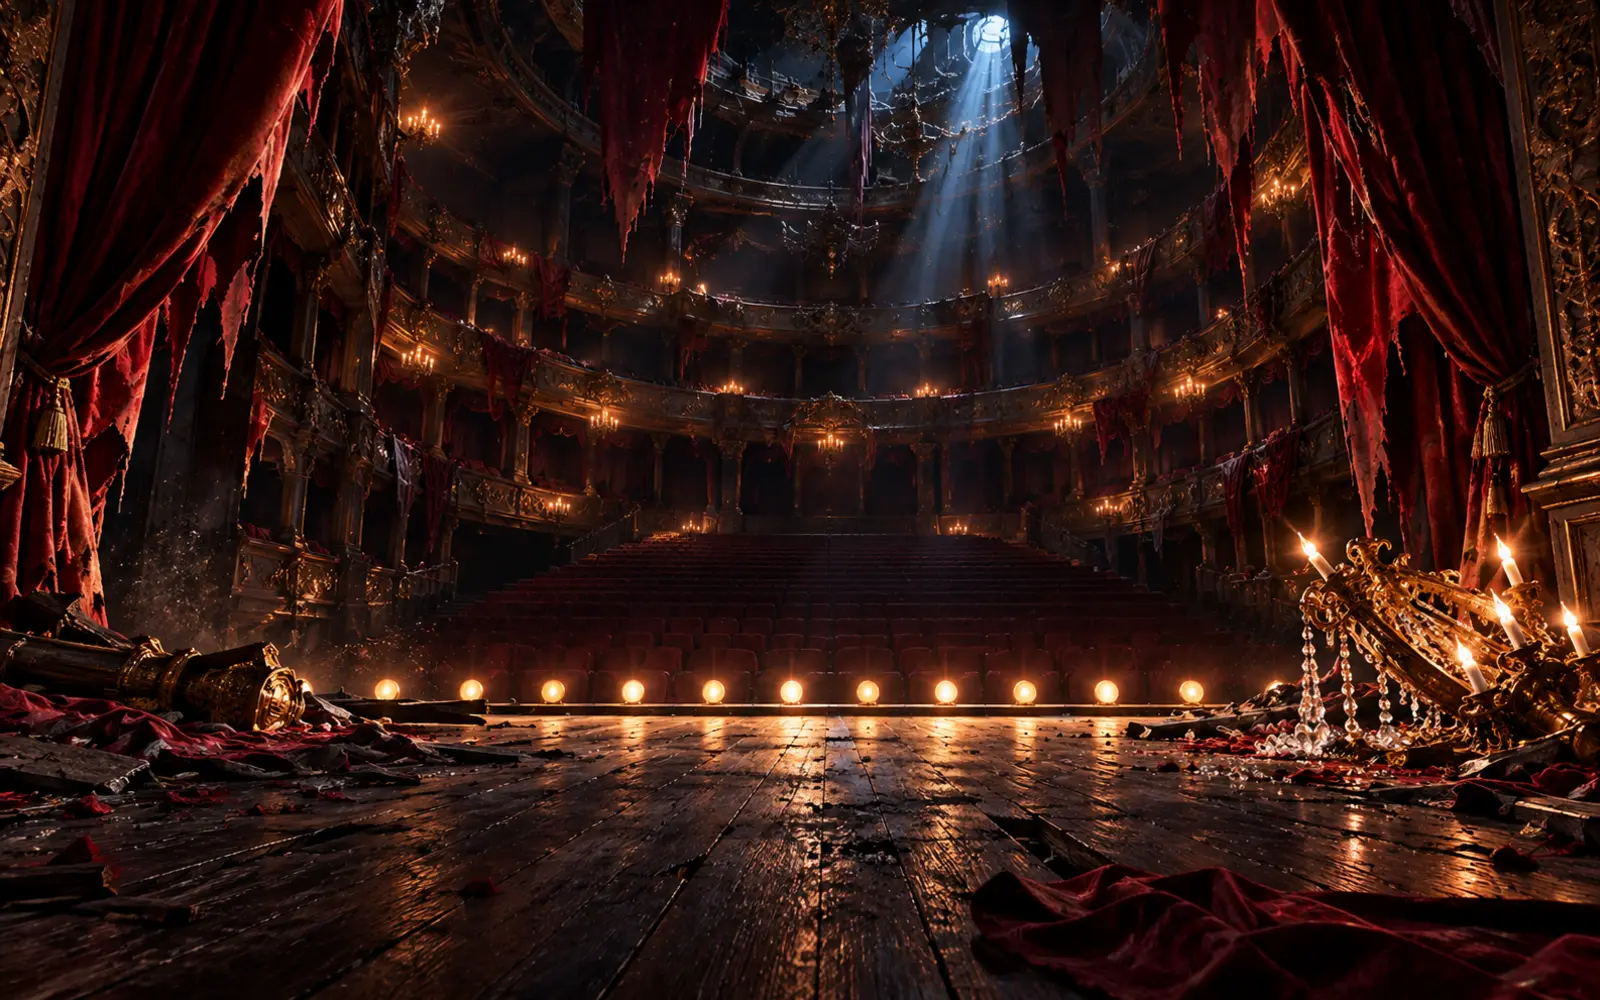
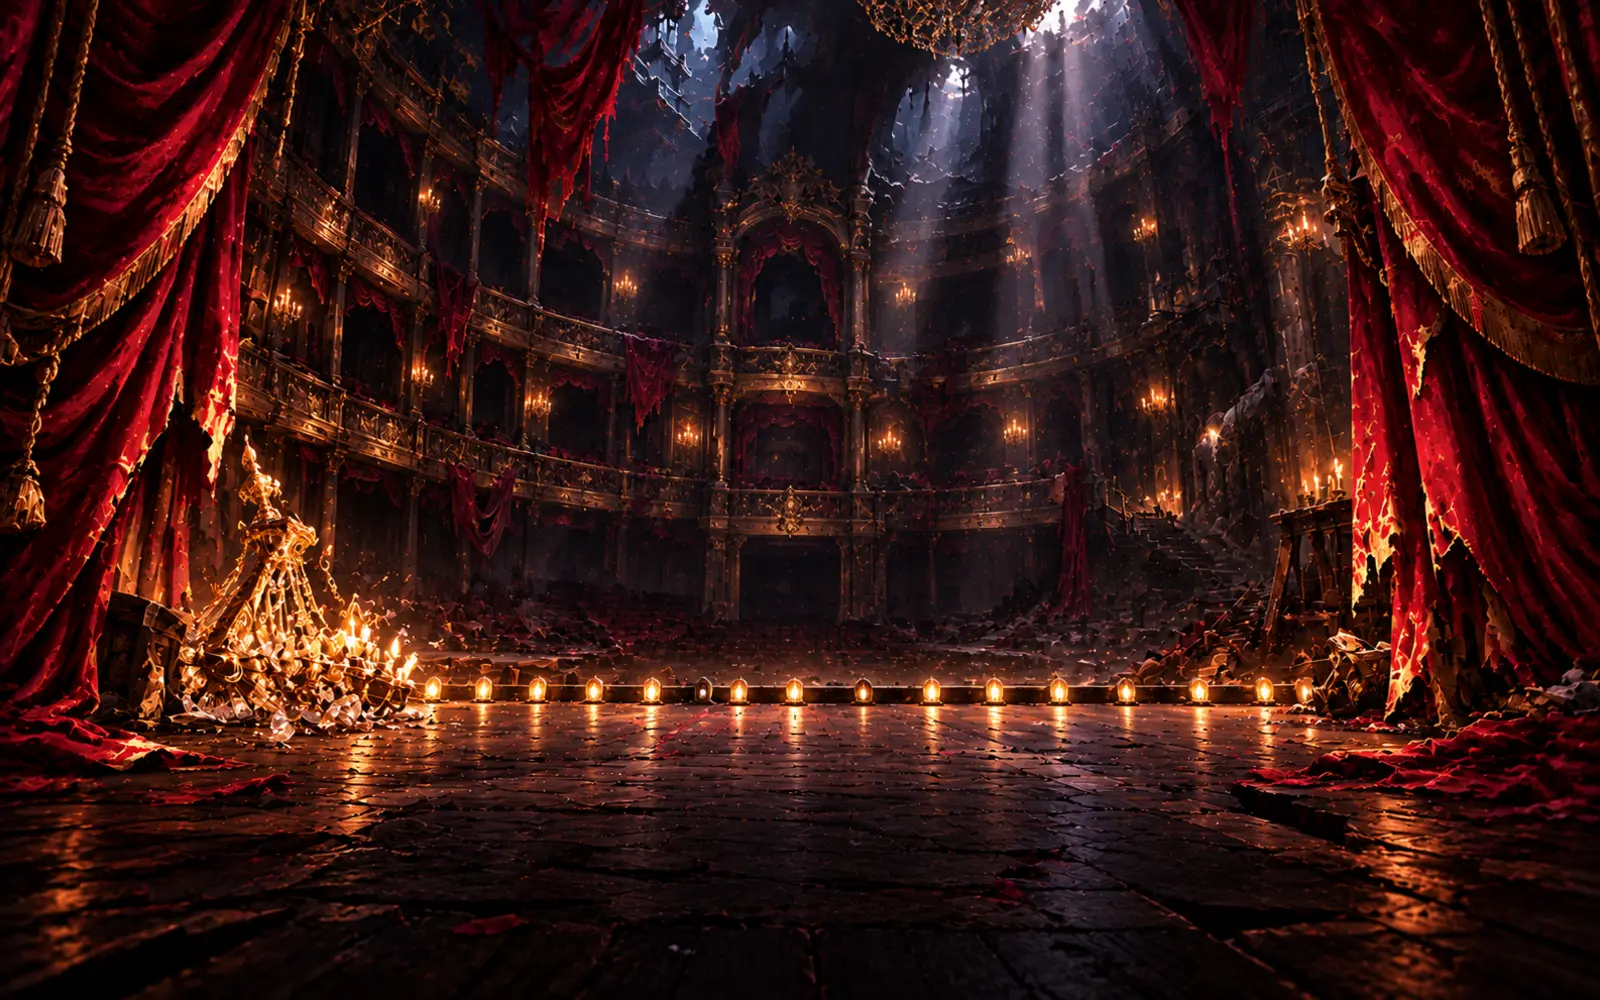
Character-free backgrounds, HUD sort control, briefing panel
Replaces all ten card backgrounds with character-free versions. Every
previous cover contained its own hero, so the transparent cut-out layered
on top landed on a second copy of the same person -- two knights, two
pilots. Enemies and vehicles are kept, since the Boss Battle demon and
the Grand Prix cars are the scene rather than the player. All ten are now
in one cel-shaded anime style, so the four newer games stop sitting beside
the six older ones in a visibly different look.

Replaces the native select with a listbox styled as part of the HUD. A
select renders as an OS widget -- grey, system-fonted, outside the
interface language of everything around it. The replacement keeps the
behaviour people expect: arrow keys, Home and End, Enter and Space to
choose, Escape to close, and focus returning to the trigger.

Filter tabs gain borders, accent glow on the active tab and a chip for
the count. The briefing panel gains corner ticks, a scanline wash and a
rule under the heading so it reads as part of the same interface as the
cards rather than an essay pasted underneath them.

Touch gets its own treatment. There is no hover on a phone, so the sprite
would sit at its small resting size permanently with no way to reveal it:
it renders larger from the start below sm, the hover growth applies only
from sm up, and the 112px row gap -- which exists purely to give a rising
character somewhere to go -- collapses to 24px where nothing rises.
[…]

diff --git a/src/components/games/sort-control.tsx b/src/components/games/sort-control.tsx
@@ -1,0 +1,155 @@
+"use client";
+
+import { useEffect, useRef, useState } from "react";
+import { ArrowUpDown, Check, ChevronDown } from "lucide-react";
+import { cn } from "@/lib/utils/cn";
+
+/**
+ * Sort control styled as part of the HUD.
+ *
+ * A native <select> renders as an OS widget — grey, system-fonted, and
+ * completely outside the interface language of the rest of the page. This is a
+ * button plus a listbox instead, but it keeps the behaviour people expect from
+ * a select: arrow keys move through options, Enter and Space choose, Escape
+ * closes, Home and End jump to the ends, and focus returns to the trigger.
+ */
+
+export interface SortOption<T extends string> {
+  id: T;
+  label: string;
+}
+
+export function SortControl<T extends string>({
+  value,
+  options,
+  onChange,
+  label = "Sort by",
+}: {
+  value: T;
+  options: readonly SortOption<T>[];
+  onChange: (v: T) => void;
+  label?: string;
+}) {
+  const [open, setOpen] = useState(false);
+  const [activeIndex, setActiveIndex] = useState(0);
+  const rootRef = useRef<HTMLDivElement | null>(null);
+  const triggerRef = useRef<HTMLButtonElement | null>(null);
+
+  const current = options.find((o) => o.id === value) ?? options[0];
+
+  useEffect(() => {
+    if (!open) return;
+
+    const onDocPointer = (e: PointerEvent) => {
+      if (!rootRef.current?.contains(e.target as Node)) setOpen(false);
+    };
+    const onKey = (e: KeyboardEvent) => {
+      if (e.key === "Escape") {
+        setOpen(false);
+        triggerRef.current?.focus();
+      }
+    };
+    document.addEventListener("pointerdown", onDocPointer);
+    document.addEventListener("keydown", onKey);
+    return () => {
+      document.removeEventListener("pointerdown", onDocPointer);
+      document.removeEventListener("keydown", onKey);
+    };
+  }, [open, options, value]);
+
+  const choose = (id: T) => {
+    onChange(id);
+    setOpen(false);
+    triggerRef.current?.focus();
+  };
+
+  const onListKey = (e: React.KeyboardEvent) => {
+    if (e.key === "ArrowDown" || e.key === "ArrowUp") {
+      e.preventDefault();
+      setActiveIndex((i) => {
+        const next = e.key === "ArrowDown" ? i + 1 : i - 1;
+        return (next + options.length) % options.length;
+      });
+    } else if (e.key === "Home") {
+      e.preventDefault();
+      setActiveIndex(0);
+    } else if (e.key === "End") {
+      e.preventDefault();
+      setActiveIndex(options.length - 1);
+    } else if (e.key === "Enter" || e.key === " ") {
+      e.preventDefault();
+      choose(options[activeIndex].id);
+    }
+  };
+
+  return (
+    <div ref={rootRef} className="relative">
+      <button
+        ref={triggerRef}
+        type="button"
+        aria-haspopup="listbox"
+        aria-expanded={open}
+        onClick={() => {
+          // Seeded here rather than in an effect: opening is the event that
+          // decides which option starts highlighted.
+          setActiveIndex(Math.max(0, options.findIndex((o) => o.id === value)));
+          setOpen((o) => !o);
+        }}
+        className={cn(
+          "flex min-h-11 items-center gap-2 rounded-lg border px-3 font-display text-[11px] uppercase tracking-wider transition-colors sm:min-h-9",
+          open
+            ? "border-accent text-accent"
+            : "border-border text-sub hover:border-accent/60 hover:text-foreground",
+        )}
+      >
+        <ArrowUpDown size={13} aria-hidden="true" />
+        <span className="text-sub">{label}</span>
+        <span className="text-foreground">{current.label}</span>
+        <ChevronDown
+          size={13}
+          aria-hidden="true"
+          className={cn("transition-transform duration-200", open && "rotate-180")}
+        />
+      </button>
+
+      {open && (
+        <ul
+          role="listbox"
+          aria-label={label}
+          tabIndex={-1}
+          onKeyDown={onListKey}
+          ref={(el) => el?.focus()}
+          className="absolute right-0 z-50 mt-1.5 min-w-[180px] overflow-hidden rounded-lg border border-accent/50 bg-background/95 py-1 backdrop-blur-sm"
+          style={{
+            boxShadow:
+              "0 0 28px -6px color-mix(in srgb, var(--accent) 50%, transparent)",
+          }}
+        >
+          {options.map((o, i) => {
+            const selected = o.id === value;
+            return (
+              <li
+                key={o.id}
+                role="option"
+                aria-selected={selected}
+                onPointerEnter={() => setActiveIndex(i)}
+                onClick={() => choose(o.id)}
+                className={cn(
+                  "flex min-h-11 cursor-pointer items-center gap-2 px-3 font-display text-[11px] uppercase tracking-wider transition-colors sm:min-h-9",
+                  i === activeIndex ? "bg-accent/15 text-accent" : "text-sub",
+                )}
+              >
+                <Check
+                  size={12}
+                  aria-hidden="true"
+                  className={selected ? "opacity-100" : "opacity-0"}
+                />
+                {o.label}
+              </li>
+            );
+          })}
+        </ul>
+      )}
+    </div>
+  );
+}

diff --git a/src/components/games/game-hub-filters.tsx b/src/components/games/game-hub-filters.tsx
@@ -4,6 +4,7 @@ import { useMemo, useState } from "react";
 import { Gamepad2, Grid3x3, Swords, Flag, Brain } from "lucide-react";
 import type { GameDefinition } from "@/lib/games/game-types";
 import { GameHubCard } from "@/components/games/game-hub-card";
+import { SortControl } from "@/components/games/sort-control";
 import { cn } from "@/lib/utils/cn";
 
 type Category = GameDefinition["category"];
@@ -65,7 +66,7 @@ export function GameHubFilters({
 
   return (
     <>
-      <div className="mb-6 flex flex-wrap items-center gap-2">
+      <div className="mb-8 flex flex-wrap items-center gap-2">
         <div
           role="tablist"
           aria-label="Filter games by category"
@@ -81,34 +82,47 @@ export function GameHubFilters({
                 aria-selected={active}
                 onClick={() => setFilter(tab.id)}
                 className={cn(
-                  "flex min-h-11 items-center gap-1.5 rounded-lg px-3 font-mono text-xs transition-colors sm:min-h-9",
+                  "group/tab relative flex min-h-11 items-center gap-1.5 rounded-lg border px-3",
+                  "font-display text-[11px] uppercase tracking-wider transition-all duration-200 sm:min-h-9",
                   active
-                    ? "bg-accent text-background"
-                    : "bg-sub-alt text-sub hover:text-foreground",
+                    ? "border-accent bg-accent/15 text-accent"
+                    : "border-border/60 bg-sub-alt/40 text-sub hover:border-accent/50 hover:text-foreground",
                 )}
+                style={
+                  active
+                    ? {
+                        boxShadow:
+                          "0 0 18px -6px color-mix(in srgb, var(--accent) 70%, transparent)",
+                      }
+                    : undefined
+                }
               >
                 {tab.icon}
                 {tab.label}
-                <span className={cn("tabular-nums", active ? "opacity-80" : "opacity-60")}>
-                  ({counts[tab.id] ?? 0})
+                <span
+                  className={cn(
+                    "rounded px-1 font-display text-[10px] tabular-nums",
+                    active ? "bg-accent/25 text-accent" : "bg-border/40 text-sub",
+                  )}
+                >
+                  {counts[tab.id] ?? 0}
                 </span>
               </button>
             );
           })}
         </div>
 
-        <label className="ml-auto flex items-center gap-2 font-mono text-xs text-sub">
-          <span>Sort by</span>
-          <select
+        <div className="ml-auto">
+          <SortControl
             value={sort}
-            onChange={(e) => setSort(e.target.value as Sort)}
-            className="min-h-11 rounded-lg border border-border bg-sub-alt px-2 font-mono text-xs text-foreground sm:min-h-9"
-          >
-            <option value="featured">Featured</option>
-            <option value="name">Name</option>
-            <option value="shortest">Shortest run</option>
-          </select>
-        </label>
+            onChange={setSort}
+            options={[
+              { id: "featured", label: "Featured" },
+              { id: "name", label: "Name" },
+              { id: "shortest", label: "Shortest run" },
+            ]}
+          />
+        </div>
       </div>
 
       <div className={cn(
@@ -117,7 +131,9 @@ export function GameHubFilters({
           // hover the character stands ~330px tall against a 232px art box, so
           // roughly 100px of it rises above the card. The row gap is what keeps
           // that from landing on the card above.
-          "gap-x-6 gap-y-28",
+          // The big row gap only earns its space where a character can rise
+          // into it. Touch has no hover, so on one column it is dead space.
+          "gap-x-6 gap-y-6 sm:gap-y-28",
         )}>
         {visible.map((game, i) => (
           <GameHubCard

diff --git a/src/app/games/page.tsx b/src/app/games/page.tsx
@@ -115,12 +115,34 @@ export default function GamesHubPage() {
         <h2 className="sr-only">All typing games</h2>
         <GameHubFilters games={[...GAME_LIST]} art={art} characters={characters} />
 
-        <section className="mt-16 rounded-2xl border border-border bg-sub-alt/20 p-6 sm:p-8">
-          <h2 className="mb-3 flex items-center gap-2 font-mono text-lg font-bold tracking-tight text-foreground">
-            <Sparkles size={16} className="text-accent" aria-hidden="true" />
+        {/* Mission briefing rather than an article box: corner ticks, a rule
+            under the heading and a HUD label, so it reads as part of the same
+            interface as the cards instead of a essay pasted underneath them. */}
+        <section className="neon-corners relative mt-20 overflow-hidden rounded-2xl border border-accent/25 bg-sub-alt/15 p-6 sm:p-9">
+          <div
+            aria-hidden="true"
+            className="pointer-events-none absolute inset-0 opacity-[0.07]"
+            style={{
+              backgroundImage:
+                "repeating-linear-gradient(90deg, var(--accent) 0 1px, transparent 1px 64px)",
+            }}
+          />
+          <p className="relative mb-2 font-display text-[10px] uppercase tracking-[0.35em] text-accent">
+            Briefing
+          </p>
+          <h2 className="relative mb-4 flex items-center gap-2 font-display text-xl font-extrabold uppercase tracking-tight text-foreground sm:text-2xl">
+            <Sparkles size={17} className="text-accent" aria-hidden="true" />
             Why these are not just typing tests
           </h2>
-          <div className="grid gap-4 text-sm leading-relaxed text-sub sm:grid-cols-2">
+          <div
+            aria-hidden="true"
+            className="relative mb-5 h-px w-full"
+            style={{
+              background:
+                "linear-gradient(to right, color-mix(in srgb, var(--accent) 70%, transparent), transparent)",
+            }}
+          />
+          <div className="relative grid gap-5 text-sm leading-relaxed text-sub sm:grid-cols-2">
             <p>
               A typing test measures you. A game asks you to decide. In
               Spellbound the length of a word is how long the spell takes to

diff --git a/src/components/games/game-hub-card.tsx b/src/components/games/game-hub-card.tsx
@@ -211,7 +211,14 @@ export function GameHubCard({
       {character && (
         <div
           aria-hidden="true"
-          className="pointer-events-none absolute bottom-[188px] left-1/2 z-20 h-[132px] -translate-x-1/2"
+          className={cn(
+            "pointer-events-none absolute bottom-[188px] left-1/2 z-20 -translate-x-1/2",
+            // Touch devices never fire hover, so the sprite would sit at its
+            // small resting size permanently with no way to reveal it. It is
+            // shown larger from the start there and the hover growth only
+            // applies from sm: up, where a pointer exists to trigger it.
+            "h-[190px] sm:h-[132px]",
+          )}
         >
           <motion.div
             className="h-full"
@@ -221,8 +228,8 @@ export function GameHubCard({
               className={cn(
                 "h-full origin-bottom opacity-95 transition-[transform,opacity] duration-500",
                 "[transition-timing-function:cubic-bezier(0.22,1,0.36,1)]",
-                "group-hover/card:scale-[2.5] group-hover/card:opacity-100",
-                "group-focus-within/card:scale-[2.5] group-focus-within/card:opacity-100",
+                "sm:group-hover/card:scale-[2.5] sm:group-hover/card:opacity-100",
+                "sm:group-focus-within/card:scale-[2.5] sm:group-focus-within/card:opacity-100",
                 "motion-reduce:!scale-100 motion-reduce:transition-none",
               )}
             >
